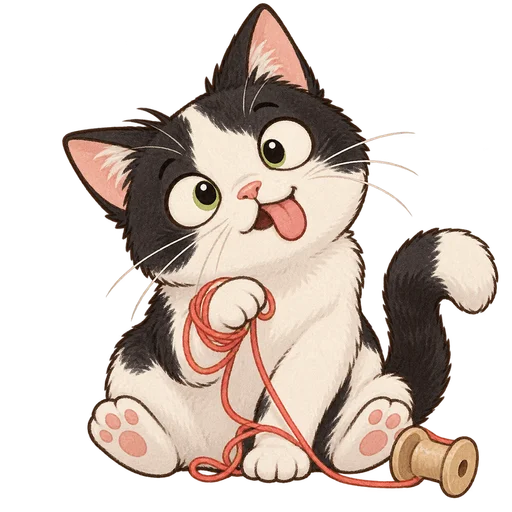
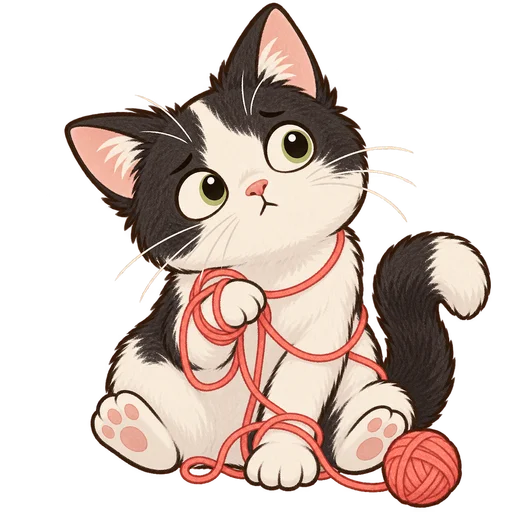
feat(companions): rename Biscuit and refresh tangled-yarn portrait

Changed region(s): [[0.125, 0.0, 1.0, 1.0]]

diff --git a/tests/companions.test.ts b/tests/companions.test.ts
@@ -8,7 +8,7 @@ import { decode, encode } from '../src/game/storage';
 describe('home companions', () => {
   it('keeps the six legacy indexes while exposing the named companion catalog', () => {
     expect(COATS.map(cat => cat.id)).toEqual(['kira', 'mario', 'roman', 'luigi', 'lola', 'biscocho']);
-    expect(COATS.map(cat => cat.name)).toEqual(['Kira', 'Mario', 'Roman', 'Luigi', 'Lola', 'Biscocho']);
+    expect(COATS.map(cat => cat.name)).toEqual(['Kira', 'Mario', 'Roman', 'Luigi', 'Lola', 'Biscuit']);
     expect(COATS.map(cat => cat.personality)).toEqual([
       'The grumpy boss. Always has a complaint.',
       'All cuddles, not a single clever thought.',
@@ -89,6 +89,16 @@ describe('home companions', () => {
     expect(game.collection).toContain(3); expect(game.coat).toBe(3);
     const restored = decode(encode(game));
     expect(restored.collection).toContain(3); expect(restored.coat).toBe(3);
+  });
+
+  it('loads an already selected legacy-index Biscuit without changing its buff or save identity', () => {
+    const game = createGame(0); game.collection = [5]; game.coat = 5;
+    const restored = decode(encode(game));
+    expect(restored.collection).toEqual([5]);
+    expect(restored.coat).toBe(5);
+    expect(activeCompanion(restored)?.id).toBe('biscocho');
+    expect(activeCompanion(restored)?.name).toBe('Biscuit');
+    expect(criticalChance(restored)).toBe(0.05);
   });
 
   it('reports a bounded progress ratio for companion UI', () => {

diff --git a/e2e/companions.spec.ts b/e2e/companions.spec.ts
@@ -64,11 +64,15 @@ test('touch challenge unlock is announced and immediately places Kira on the cus
 });
 
 test('Spanish collection preserves pet names and explains the selected-only bonus', async ({ page }) => {
-  const game = createGame(Date.now()); game.settings.language = 'es';
+  const game = createGame(Date.now()); game.settings.language = 'es'; game.collection = [5]; game.coat = 5;
   await seed(page, game);
+  await expect(page.locator('#world')).toHaveAttribute('data-companion', 'biscocho');
+  await expect(page.locator('#world')).toHaveAttribute('data-companion-ready', 'true');
   await page.getByRole('button', { name: 'Colección de gatos', exact: true }).click();
   await expect(page.locator('.companion-rule')).toContainText('seleccionado');
-  for (const name of ['Kira','Mario','Roman','Luigi','Lola','Biscocho']) await expect(page.getByRole('heading', {name, exact:true})).toBeVisible();
+  for (const name of ['Kira','Mario','Roman','Luigi','Lola','Biscuit']) await expect(page.getByRole('heading', {name, exact:true})).toBeVisible();
+  await expect(page.locator('#companion-summary')).toContainText('Biscuit');
+  await expect(page.locator('#select-companion-5')).toHaveAttribute('aria-pressed', 'true');
 });
 
 test('imported companions are restored without false unlock announcements', async ({ page }) => {

diff --git a/src/game/catalog.ts b/src/game/catalog.ts
@@ -48,5 +48,5 @@ export const COATS = [
   { id: 'roman', name: 'Roman', color: '#716b78', accent: '#e6deeb', personality: 'A sleepy, chubby sweetheart.', buff: 'Offline production earns 65%.', challenge: 'Earn 100,000 yarn while offline.' },
   { id: 'luigi', name: 'Luigi', color: '#e8b1a1', accent: '#fff0dc', personality: 'Fluffy, feisty, and always pestering someone.', buff: 'Kitten, Basket, and Corner output +30%.', challenge: 'Complete 3 chapters.' },
   { id: 'lola', name: 'Lola', color: '#a9b5a0', accent: '#e5eed6', personality: 'Tiny paws. The sweetest heart.', buff: 'Crew prices 5% lower.', challenge: 'Reach a population of 5,000 cats.' },
-  { id: 'biscocho', name: 'Biscocho', color: '#b5a3cc', accent: '#efe8ff', personality: 'A lovable klutz. Trouble follows every step.', buff: 'Triple-touch chance +5 percentage points.', challenge: 'Complete 5 chapters and make 5,000 lifetime taps.' },
+  { id: 'biscocho', name: 'Biscuit', color: '#b5a3cc', accent: '#efe8ff', personality: 'A lovable klutz. Trouble follows every step.', buff: 'Triple-touch chance +5 percentage points.', challenge: 'Complete 5 chapters and make 5,000 lifetime taps.' },
 ] as const;

diff --git a/tests/companions-ui.test.ts b/tests/companions-ui.test.ts
@@ -15,7 +15,8 @@ it('shows six named pet illustrations, their buffs, challenges and an empty acti
   expect(html).toContain('Reach 250 cats and 1,000 lifetime taps.');
   expect(html).toContain('All passive production +10%.');
   expect(html.match(/data-companion-progress/g)).toHaveLength(6);
-  expect(html).not.toContain('Biscuit');
+  expect(html).toContain('Biscuit');
+  expect(html).not.toContain('Biscocho');
 });
 it('marks exactly one unlocked selected cat active and keeps other bonuses inactive', () => {
   const game = createGame(); game.collection = [0,1]; game.coat = 1;
@@ -28,6 +29,7 @@ it('marks exactly one unlocked selected cat active and keeps other bonuses inact
 it('localizes companion explanations but preserves the real cats names', () => {
   setLanguage('es'); const html = collectionPanel(createGame());
   expect(html).toContain('Solo el acompañante seleccionado aporta una bonificación.');
-  expect(html).toContain('Kira'); expect(html).toContain('Biscocho');
+  expect(html).toContain('Kira'); expect(html).toContain('Biscuit');
+  expect(html).not.toContain('Biscocho');
   expect(html).not.toContain('All passive production');
 });

diff --git a/README.md b/README.md
@@ -12,11 +12,11 @@ No package installation or internet connection is needed to play the included bu
 
 ## What changed in 0.5.0
 
-- Six illustrated home companions: **Kira, Mario, Roman, Luigi, Lola, and Biscocho**, with personalities and markings based on the user's pets. Kira uses the supplied tabby reference.
+- Six illustrated home companions: **Kira, Mario, Roman, Luigi, Lola, and Biscuit**, with personalities and markings based on the user's pets. Biscuit retains the legacy internal ID `biscocho` so existing saves remain valid.
 - The selected unlocked companion appears on the workshop's 3D cushion. A new game leaves it empty. **Only the selected companion grants a bonus**; collecting more cats does not stack buffs.
 - Harder permanent challenges span tapping, crew growth, upgrades, offline production, and restarts. Collection cards show requirements, progress, and each bonus in English and Spanish.
 - Existing earned companions and their selection remain unlocked at the same save indices. New conditions apply to companions not already earned; no player progress is confiscated.
-- Six local transparent illustrations add 296,188 bytes. No new runtime dependency, account, download-at-playtime, or monetization was added.
+- Six local transparent illustrations add 291,256 bytes. No new runtime dependency, account, download-at-playtime, or monetization was added.
 
 | Companion | Unlock challenge | Selected bonus |
 | --- | --- | --- |
@@ -25,7 +25,7 @@ No package installation or internet connection is needed to play the included bu
 | Roman | 100,000 cumulative offline yarn | Offline earns 65% instead of 50% |
 | Luigi | 3 completed restarts | Kitten, Basket and Corner output +30% |
 | Lola | 5,000 current cats | Crew prices −5%, applied before rounding |
-| Biscocho | 5 completed restarts AND 5,000 lifetime touches | Triple-touch chance +5 percentage points |
+| Biscuit | 5 completed restarts AND 5,000 lifetime touches | Triple-touch chance +5 percentage points |
 
 Unlocks survive resets, even if the current population falls. The first unlocked companion is selected automatically; later unlocks never replace an existing selection. Roman's bonus applies only to future absences after selection, not retroactively to the absence that unlocks him. Offline time remains capped at eight hours.
 
@@ -73,7 +73,7 @@ Legacy v1/v2 saves default music to 20% and language to English. Other settings 
 | Silky Threads | 500,000 | Manual base ×2 |
 | Moonlit Shift | 1,000,000 | Automatic ×2 |
 
-Chapter chance bonuses add to a maximum of 20% (25% while Biscocho is selected). A successful roll multiplies the **whole manual reward**, including Helping Paw, by three. Other multipliers stack multiplicatively. All chapter upgrades reset on prestige; permanent talents do not. These prices are authored starting values, not validated commercial balance.
+Chapter chance bonuses add to a maximum of 20% (25% while Biscuit is selected). A successful roll multiplies the **whole manual reward**, including Helping Paw, by three. Other multipliers stack multiplicatively. All chapter upgrades reset on prestige; permanent talents do not. These prices are authored starting values, not validated commercial balance.
 
 ## Controls and progression
 

diff --git a/docs/assets-v05.md b/docs/assets-v05.md
@@ -1,11 +1,11 @@
 # Home companion artwork — 0.5.0
 
-Six original character illustrations were generated with the built-in image generation tool: Kira, Mario, Roman, Luigi, Lola, and Biscocho. They are based on the user's pet descriptions. Kira additionally uses the supplied grey/brown tabby photograph as a visual reference; that reference photograph is not redistributed in the game.
+Six original character illustrations were generated with the built-in image generation tool: Kira, Mario, Roman, Luigi, Lola, and Biscuit. They are based on the user's pet descriptions and later personal reference photographs; those photographs are not redistributed in the game. Biscuit retains the original `biscocho` internal ID and asset filename for save compatibility.
 
 - Runtime assets: `public/art/companions/{id}.webp`.
 - Final generation prompts: [companion-art-prompts.json](companion-art-prompts.json).
 - Each character is 512 × 512 with transparent alpha. The bundled Sharp library was used only for delivery resizing and WebP encoding (quality85, alpha100). No new project dependency.
-- Combined compressed size: **296,188 bytes**. All six are local and available offline.
+- Combined compressed size: **291,256 bytes**. All six are local and available offline.
 - The same artwork is used in collection cards and the workshop. The latter is a camera-facing Three.js Sprite over the existing 3D cushion; workers remain procedural 3D cats.
 - Only the currently selected portrait owns a GPU texture. Changing selection releases the old texture. Stale asynchronous loads cannot replace a newer selection, and the controller disposes its texture/material on teardown.
 - Unavailable/locked companions never show on the cushion. Loading or failed portraits remain hidden instead of displaying stale art. The HTML collection and its bonuses do not depend on WebGL rendering.
@@ -31,3 +31,7 @@ Luigi's revised sprite keeps his fluffy grey-brown tabby stripes, white muzzle, 
 ## Roman personal reference portrait — 25 September 2026
 
 The user's photograph establishes Roman's distinct white-and-cool-grey coat: a broad grey saddle across the upper back, grey head cap and tail, with a white face, chest, plump belly and front paws. His revised chibi sprite curls into a peaceful nap with his head on his paws, distinct from Mario's dangling-paws pose. The gentle closed-eye expression replaces the old exaggerated smiling belly pose. The personal reference photograph is not redistributed; this is an art-only replacement with no change to bonuses, unlocks, IDs, gameplay or saves.
+
+## Biscuit name and tangled-yarn portrait — 25 September 2026
+
+The user's personal photograph identifies Biscuit (formerly displayed as Biscocho) as a mostly white short-haired cat with a dark cap, back patch and tail. His revised chibi sprite is loosely tangled in coral yarn, looking gently bewildered rather than tongue-out or panicked. Only the displayed name changes: the `biscocho` ID, collection index 5, saved selection and existing bonus remain stable. The photograph is not redistributed.
